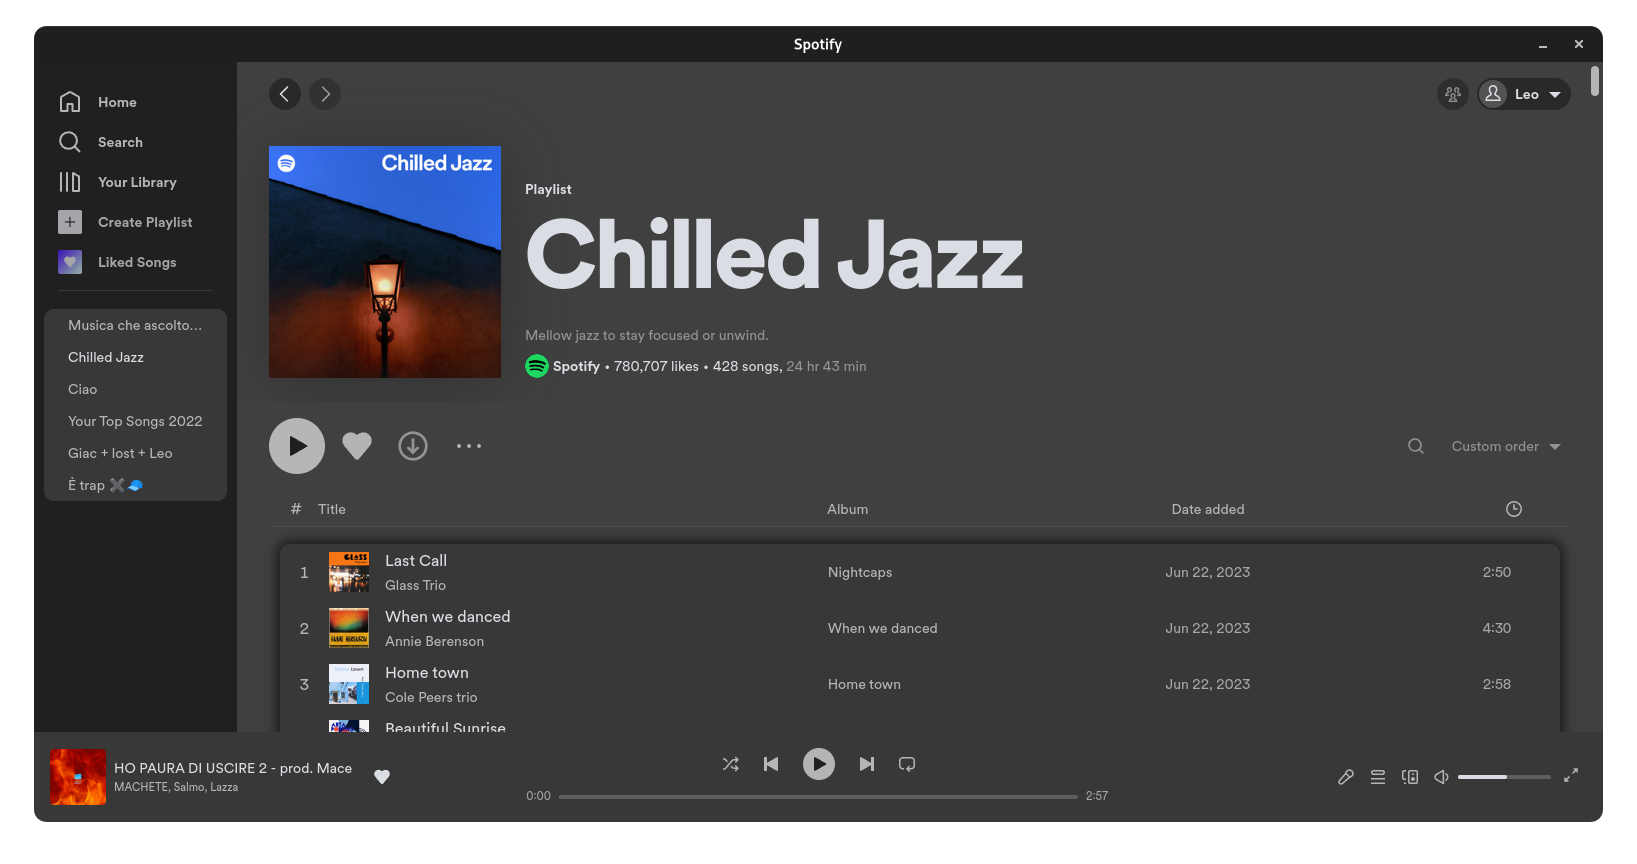
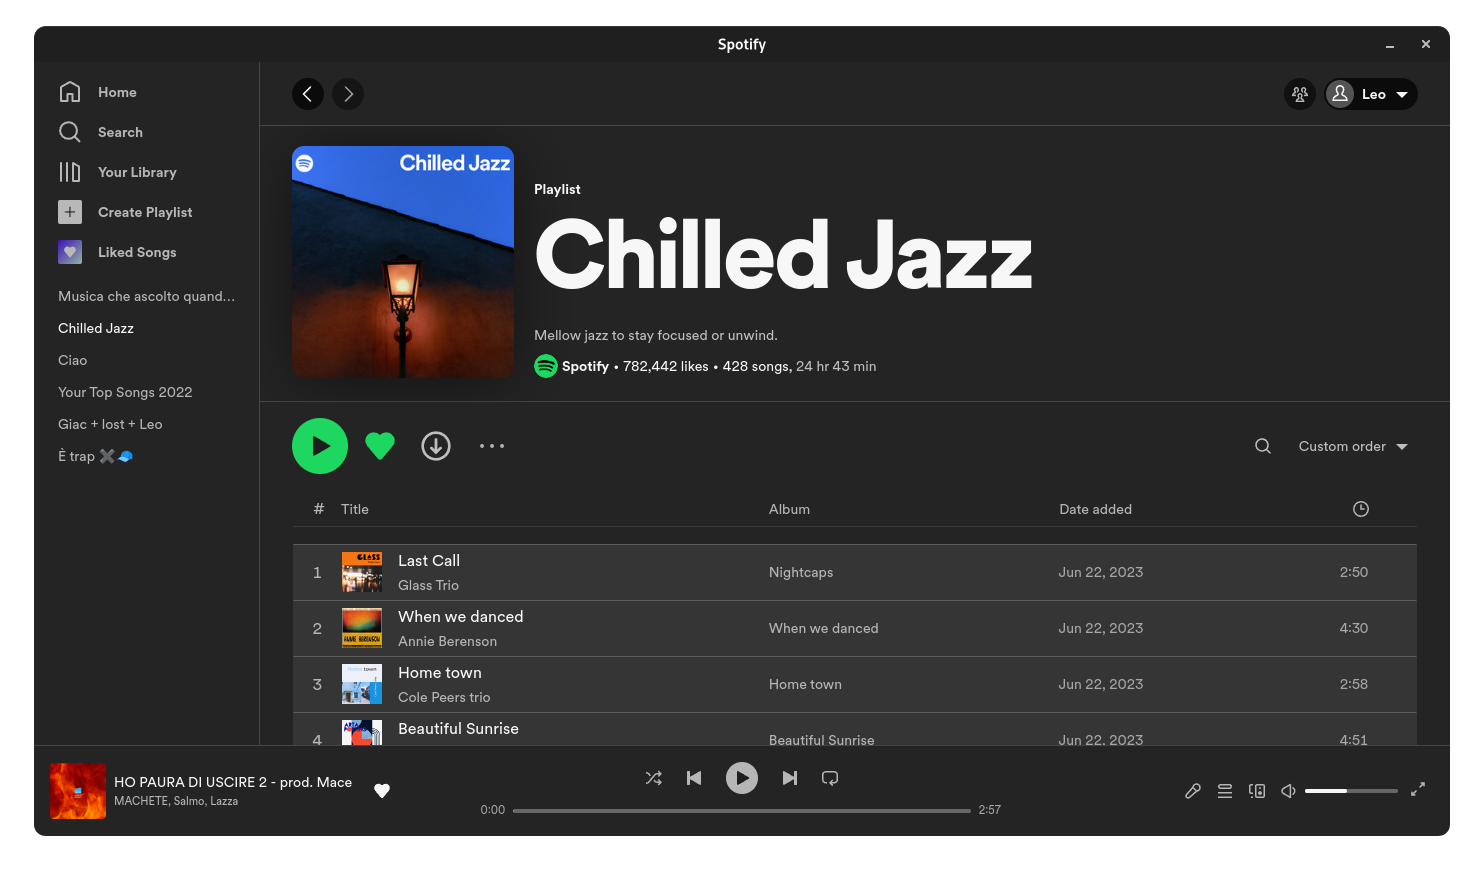
Updated Adwaita theme

diff --git a/Adwaita Theme/user.css b/Adwaita Theme/user.css
@@ -1,137 +1,113 @@
-/* text */
-.main-cardSubHeader-root {
-    color: var(--spice-subtext);
+.GlueDropTarget, .main-actionBarBackground-background, .playlist-playlist-playlistContent, .os-content, .under-main-view, .main-entityHeader-backgroundColor, .contentSpacing, .main-actionBarBackground-background{
+    background-color: var(--spice-main-background) !important;
+    box-shadow: none !important;
+}
+
+.GlueDropTarget > .main-rootlist-rootlistItem:hover{
+    margin-left: 15px !important;
+    margin-right: 15px !important; 
+}
+
+.main-rootlist-rootlistItem:hover{
+    padding-left: 9px !important;
+    background-color: var(--spice-song-row);
+    border-radius: 8px;
+}
+
+.playlist-playlist-playlistImageContainer, .main-entityHeader-image,  .profile-editImage-editImageButtonContainer, .main-editImageButton-overlay{
+    margin-right: 10px;
+    border-radius: 12px !important;
+    transition-duration: 0.25s;
+}
+
+.main-topBar-container, .main-home-homeHeader, .main-trackList-trackListHeaderStuck {
+    background-color: var(--spice-main-background) !important;
+    border-bottom: solid 1px #454545;
+}
+
+.main-topBar-background{
+    background-color: var(--spice-main-background) !important;
+    opacity: 0 !important;
+    border-bottom: solid 1px #383838;
 }
 
 
-/* Buttons */
-
-.button {
-  color: var(--spice-button);
-} .main-playButton-PlayButton.main-playButton-primary, .main-shuffleButton-button, .main-actionBar-ActionBar.contentSpacing, .main-actionBar-ActionBarRow > div > .button,  .HbKLiGoYM4dpuK8L4TMX, .Svg-sc-1bi12j5-0.jgfuCe.X1lXSiVj0pzhQCUo_72A, .main-moreButton-button, .wCl7pMTEE68v1xuZeZiB, .w6j_vX6SF5IxSXrrkYw5 {
-  color: var(--spice-subtext);
+.main-trackList-playingIcon{
+    filter: sepia(200%);
 }
-/* ActionBar && ProgressBar */
-.main-actionBar-ActionBarRow > div >  .input::placeholder {
-  color: var(--spice-subtext);
-} .x-progressBar-sliderArea {
-  color: var(--spice-subtext);
+
+.main-home-home, .main-navBar-entryPoints{
+    margin: 0px !important;
+    padding: 0px !important;
+}
+
+.main-trackList-trackListRow{
+    background-color: var(--spice-song-row) !important;
+    border-radius: 0px;
+    border-top: solid 1px #5c5c5c;
+
+}
+
+.main-rootlist-rootlistDividerContainer, .main-entityHeader-overlay{
+    display: none;
+}
+
+.main-entityHeader-topbarTitle {
+    margin-left: 10px;
+    padding-top: 6px;
+}
+
+.main-entityHeader-backgroundColor, .WiPggcPDzbwGxoxwLWFf, .main-home-content{
+    /* box-shadow: none !important; */
+    border-bottom: solid 1px #454545 !important;
+    padding-top: 30px;
+}
+
+.main-playButton-PlayButton > * {
+    color: var(--spice-text) !important; 
+} .main-trackList-rowHeartButton {
+    color: var(--spice-text);
+}
+
+.main-navBar-navBar{
+    padding-top: 10px !important;
+    background-color: var(--spice-main-background);
+    border-right: solid 1px #454545;
+}
+
+/* now playing bar, bottom bar */
+.main-nowPlayingBar-container{
+    border-top: solid 1px #454545;
+    background-color: var(--spice-main-background);
 }
 
 /* Skip button, Forward button, repeat, karoke, lyrics, spotify-connect, volume */
-.main-skipBackButton-button,.main-genericButton-button, .main-skipForwardButton-button, .main-repeatButton-button, .ZMXGDTbwxKJhbmEDZlYy.control-button, .Button-sc-1dqy6lx-0.hyWUsx, .control-button.iUSAh1wdhXLk9hHSbkCA, .volume-bar__icon-button.control-button, .control-button {
+.main-skipBackButton-button,.main-genericButton-button, .main-skipForwardButton-button, .main-repeatButton-button, .ZMXGDTbwxKJhbmEDZlYy.control-button, .Button-sc-1dqy6lx-0.hyWUsx, .control-button.iUSAh1wdhXLk9hHSbkCA, .volume-bar__icon-button.control-button, .control-button, .main-playButton-PlayButton.main-playButton-primary, .main-shuffleButton-button, .main-actionBar-ActionBar.contentSpacing, .main-actionBar-ActionBarRow > div > .button,  .HbKLiGoYM4dpuK8L4TMX, .Svg-sc-1bi12j5-0.jgfuCe.X1lXSiVj0pzhQCUo_72A, .main-moreButton-button, .wCl7pMTEE68v1xuZeZiB, .w6j_vX6SF5IxSXrrkYw5 {
   color: var(--spice-subtext);
 }
 
-
-/* Search bar placeholder */
-.QZhV0hWVKlExlKr266jo::placeholder {
-  color: var(--spice-subtext);
-}
-div.context-menu {
-  background-color: var(--crust);
-}
-.main-button-primary {
-    background-color: var(--spice-main);
-}
 .main-button-primary:active,
 .main-button-primary:focus,
 .main-button-primary:hover,
-.main-playPauseButton-button {
-    background-color: var(--spice-button-hover);
+.main-playPauseButton-button,
+.main-view-container button:hover > div[class^='ButtonInner-sc-'] {
+    background-color: var(--spice-subtext) !important;
 }
 
-.main-view-container button:hover > div[class^='ButtonInner-sc-'] {
-    background-color: var(--spice-button-hover);
+.x-toggle-wrapper:hover > * {
+    background-color: var(--spice-song-row) !important;
 }
 
 .control-button-heart[aria-checked="true"],
+.main-playButton-PlayButton,
 .main-addButton-active,
 .main-addButton-active:focus,
 .main-addButton-active:hover {
     color: var(--spice-text);
 }
 
-.main-addButton-active:hover {
-    -webkit-transform: scale(1.06);
-    transform: scale(1.06);
-}
-.QZhV0hWVKlExlKr266jo {
-  color: var(--spice-subtext);
-}
-
-/* player */
-.main-nowPlayingBar-container{
-
-  border-top: none;
-
-}
-
-/* Progress bar */
-.x-progressBar-progressBarBg > div > div {
-    background-color: var(--spice-text);
-}
-
-/* Top bars */
-.main-entityHeader-backgroundColor,
-.main-actionBarBackground-background,
-.main-view-container main[aria-label="Spotify - Web Player"] > div:first-child {
-    display: none;
-} .main-entityHeader-withBackgroundImage {
-    background-color: rgba(var(--spice-rgb-player), 0.2);
-}.main-topBar-background {
-    background-color: var(--spice-main) !important;
-}
-
-/* Sidebar */
- .main-rootlist-wrapper{
-    background-color: var(--spice-player);
-    margin: 10px;
-    border-radius: 10px;
-    box-shadow: 0px 0px 10px 5px var(--spice-shadow);
-} .main-rootlist-rootlistDividerGradient{
-    opacity: 0; 
-} .main-navBar-entryPoints, .main-navBar-navBar{
-    padding-top: 10px !important;
-} .main-navBar-navBarLinkActive{
-    background-color: var(--spice-accent);
-}
-
-.GlueDropTarget--playlists, .main-rootlist-rootlistItem{
-
-    transition-duration: 0.25s;
-    
-
-}
-
-/* Home */
-.main-home-homeHeader {
-    display: none;
-} .main-home-content
-    > section:first-child
-    > .main-gridContainer-gridContainer
-    > div {
-    background-color: var(--spice-main);
-} .main-home-content
-    > section:first-child
-    > .main-gridContainer-gridContainer
-    > div:hover {
-    background-color: var(--spice-main);
-} .main-card-card:hover{
-    background-color: var(--spice-accent);
-
-
-}
-
-.main-gridContainer-gridContainer > div,
-.main-gridContainer-gridContainer > div > div > div {
-    border-radius: 6px;
-} .ButtonInner-lg-iconOnly, .ButtonInner-lg-iconOnly:hover{
-    background-color: var(--spice-subtext);
-}
-.encore-dark-theme .encore-bright-accent-set {
-    --background-highlight: var(--spice-button-active);
-
+.main-view-container{
+    background-color: var(--spice-main-background) !important;
 }
 
 /* Scrollbar */
@@ -156,78 +132,4 @@ div.context-menu {
 ::-webkit-scrollbar-thumb {
     background-color: #575268;
     border-radius: 4px;
-}
-
-/* Cards */
-.main-card-card {
-    border-radius: 6px;
-    background-color: var(--mantle);
-} .main-card-imageContainer {
-    margin: -16px -16px 16px -16px;
-} .main-cardImage-imageWrapper, .main-cardImage-image {
-    border-radius: 6px 6px 0 0;
-}
-
-/* buddy feed */
-.main-buddyFeed-content{
-    background-color: var(--spice-main) !important;
-} .main-buddyFeed-friendActivity{
-
-    background-color: var(--spice-player);
-    border-radius: 10px;
-    box-shadow: 0px 0px 10px 5px #202429;
-    padding-left: 10px;
-    padding-right: 10px;
-    margin: 10px;
-    height: min-content;
-
-}
-
-.main-buddyFeed-activityMetadata .main-buddyFeed-username a,
-.main-buddyFeed-activityMetadata .main-buddyFeed-usernameAndTimestamp {
-    color: rgba(var(--text), 0.2);
-}
-
-.main-buddyFeed-activityMetadata .main-buddyFeed-artistAndTrackName a,
-.main-buddyFeed-activityMetadata .main-buddyFeed-playbackContextLink,
-.main-buddyFeed-activityMetadata .main-buddyFeed-timestamp {
-    color: rgba(var(--spice-rgb-sidebar-text), 0.8);
-}
-
-/* context menu */
-.main-contextMenu-menu{
-
-    background-color: var(--spice-player);
-    border-radius: 5px;
-    box-shadow: 0px 0px 10px 2px rgba(0,0,0,0.3) !important;
-
-}
-
-/* Settings */
-
-
-.x-toggle-wrapper{
-    background-color: var(--spice-subtext);
-    border-radius: 12px ;
-} 
-
-.x-toggle-indicatorWrapper:not(:checked){
-    background-color: var(--spice-subtext);
-}
-
-.main-dropDown-dropDown {
-    background-color: var(--spice-secbutton) !important;
-}
-
-.main-dropDown-dropDown {
-    color: var(--spice-subtext);
-}
-
-.main-trackList-playingIcon {
-    background-size: cover;
-    padding-left: 100%;
-}
-
-.main-trackList-playingIcon {
-    background-image: url("track-listening.gif");
 }
